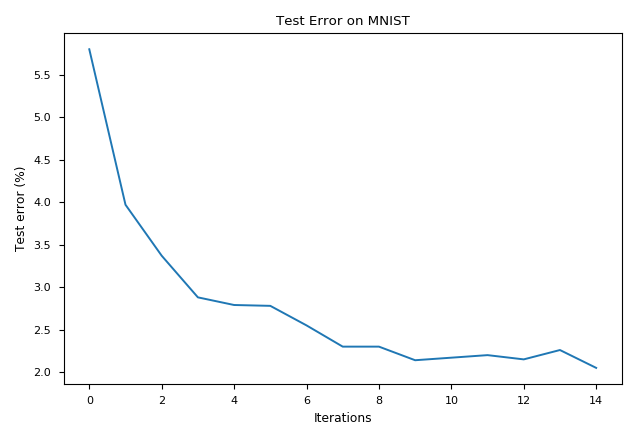
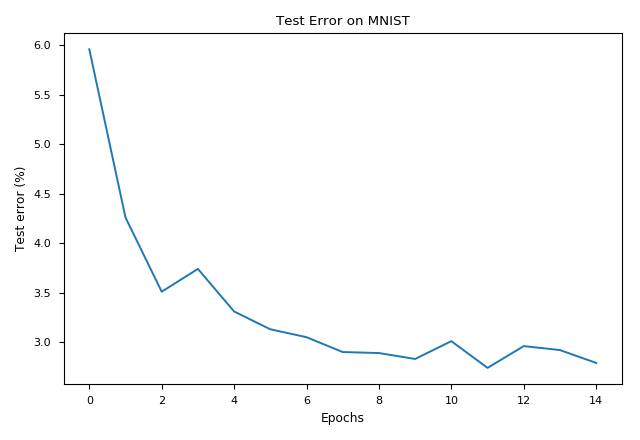
bbb

diff --git a/BBB/bayes_by_backprop.py b/BBB/bayes_by_backprop.py
@@ -1,0 +1,292 @@
+"""
+Adapt from:
+1. https://gist.github.com/vvanirudh/9e30b2f908e801da1bd789f4ce3e7aac
+"""
+
+# from copy import deepcopy
+import numpy as np
+import math
+
+import torch
+import torchvision
+import torch.nn as nn
+import torch.utils.data as Data
+import torch.nn.functional as F
+from torch.autograd import Variable
+from torch.utils.data.sampler import SubsetRandomSampler
+
+
+# Hyperparameters
+N_Epochs = 15
+N_Samples = 1
+LearningRate = 1e-3
+BatchSize = 100
+Download_MNIST = False   # download the dataset if you don't already have it
+
+# Gaussian prior
+SigmaPrior = 1.
+
+# Scaled mixture Gaussian prior
+Pi = .25
+SigmaPrior1 = 2.
+SigmaPrior2 = .1
+
+training_set = torchvision.datasets.MNIST(
+    root='./mnist/',
+    train=True,
+    transform=torchvision.transforms.ToTensor(),
+    download=Download_MNIST
+)
+
+N_Batch = training_set.train_data.size()[0] / BatchSize
+
+
+# # Split training and validation set manually
+# val_set = deepcopy(training_set)
+#
+# indices = list(range(len(training_set)))
+# split = 50000
+#
+# train_idx = indices[:split]
+#
+# train_sampler = SubsetRandomSampler(train_idx)
+# train_loader = torch.utils.data.DataLoader(training_set,
+#                                            batch_size=BatchSize,
+#                                            sampler=train_sampler)
+#
+# valid_sampler = SubsetRandomSampler(valid_idx)
+# valid_loader = torch.utils.data.DataLoader(val_set,
+#                                            batch_size=10000,
+#                                            sampler=valid_sampler)
+#
+# val_X = training_set.train_data[split:]
+# val_Y = training_set.train_labels[split:]
+
+train_loader = Data.DataLoader(dataset=training_set, batch_size=BatchSize, shuffle=True)
+
+
+test_set = torchvision.datasets.MNIST(
+    root='./mnist/',
+    train=False,
+    transform=torchvision.transforms.ToTensor(),
+    download=Download_MNIST
+)
+
+
+NegHalfLog2PI = -.5 * math.log(2.0 * math.pi)
+
+
+def log_gaussian(x, mu, sigma):
+    """
+    Log prob of a Gaussian
+    :param x:
+    :param mu:
+    :param sigma: a real number
+    :return: Log-Gaussian prob of sample x given mean mu and std sigam
+    """
+    if type(sigma) == Variable:
+        return NegHalfLog2PI - torch.log(sigma) - (x - mu) ** 2 / (2 * sigma ** 2)
+    else:
+        return NegHalfLog2PI - math.log(sigma) - (x - mu) ** 2 / (2 * sigma ** 2)
+
+
+def gaussian(x, mu, sigma):
+    """
+    Prob of a Gaussian
+    :param x:
+    :param mu:
+    :param sigma:
+    :return:
+    """
+    scaling = 1. / math.sqrt(2. * math.pi * (sigma ** 2))   # normalizing constant
+    bell = torch.exp(- (x - mu) ** 2 / (2. * sigma ** 2))
+    return scaling * bell
+
+
+def log_mixture_gaussian(x):
+    """
+    Scaled mixture Gaussian prior
+    :param x:
+    :return:
+    """
+    gaussian1 = gaussian(x, 0, SigmaPrior1)
+    gaussian2 = gaussian(x, 0, SigmaPrior2)
+    return torch.log(Pi * gaussian1 + (1 - Pi) * gaussian2)
+
+
+class MLPLayer(nn.Module):
+    def __init__(self, n_input, n_output):
+        super(MLPLayer, self).__init__()
+
+        # Instantiate a large Gaussian block to sample from, much faster than generate random sample every time
+        self._gaussian_block = np.random.randn(10000)
+
+        self.n_input = n_input
+        self.n_output = n_output
+
+        # Hyperparameters for a layer
+        self.W_mu = nn.Parameter(torch.FloatTensor(n_input, n_output).normal_(0, .1))
+        self.W_rho = nn.Parameter(torch.ones(n_input, n_output) * -3)
+
+        self.b_mu = nn.Parameter(torch.FloatTensor(n_output).uniform_(-.1, .1))
+        self.b_rho = nn.Parameter(torch.ones(n_output) * -3)
+
+        self.log_prior = .0
+        self.log_posterior = .0
+
+        self._Var = lambda x: Variable(torch.from_numpy(x).type(torch.FloatTensor))
+
+    def forward(self, X, infer=False):
+
+        # Use *mean* as model parameters at test time
+        if infer:
+            output = torch.mm(X, self.W_mu) + self.b_mu.expand(X.size()[0], self.W_mu.size()[1])
+            return output
+
+        epsilon_W, epsilon_b = self._random()
+
+        W_sigma = torch.exp(self.W_rho)
+        b_sigma = torch.exp(self.b_rho)
+
+        # Construct weight matrix and bias by shifting it by a mean and scale it by a standard deviation
+        W = self.W_mu + W_sigma * epsilon_W
+        b = self.b_mu + b_sigma * epsilon_b
+
+        # Compute output
+        output = torch.mm(X, W) + b.expand(X.size()[0], W.size()[1])
+
+        # Compute prior
+        # Gaussian prior
+        # self.log_prior = log_gaussian(W, 0, SigmaPrior).sum() + \
+        #                  log_gaussian(b, 0, SigmaPrior).sum()
+
+        # Mixture Gaussian prior
+        self.log_prior = log_mixture_gaussian(W).sum() + \
+                         log_mixture_gaussian(b).sum()
+
+        # Compute posterior
+        self.log_posterior = log_gaussian(W, self.W_mu, W_sigma).sum() + \
+                             log_gaussian(b, self.b_mu, b_sigma).sum()
+        return output
+
+    def _random(self):
+        W_noise = np.random.choice(self._gaussian_block, size=self.n_input * self.n_output)
+        W_noise = np.expand_dims(W_noise, axis=1).reshape(self.n_input, self.n_output)
+        W_noise = self._Var(W_noise)
+
+        b_noise = np.random.choice(self._gaussian_block, size=self.n_output)
+        b_noise = self._Var(b_noise)
+
+        return W_noise, b_noise
+
+
+class MLP(nn.Module):
+    def __init__(self, n_input, hidden_size, n_output):
+        super(MLP, self).__init__()
+
+        self.input = MLPLayer(n_input, hidden_size)
+        self.hidden = MLPLayer(hidden_size, hidden_size)
+        self.output = MLPLayer(hidden_size, n_output)
+
+        self.layers = []
+        for layer in [self.input, self.hidden, self.output]:
+            self.layers.append(layer)
+
+    def forward(self, x, infer=False):
+        _log_prior = 0
+        _log_posterior = 0
+
+        for i, layer in enumerate(self.layers):
+            if i != len(self.layers) - 1:   # other than output layer
+                x = F.relu(layer.forward(x, infer))
+            else:
+                x = F.softmax(layer.forward(x, infer))
+
+            _log_prior += layer.log_prior
+            _log_posterior += layer.log_posterior
+
+        return x, _log_prior, _log_posterior
+
+
+def Forward(X, Y):
+    """
+    :param X: batched
+    :param Y: batched
+    :return:
+    """
+    log_prior = 0
+    log_posterior = 0
+    log_likelihood = 0
+
+    for _ in range(N_Samples):   # sample N samples and average
+
+        # Forward and compute log prob
+        output, sample_log_prior, sample_log_posterior = hyper_net.forward(X)
+
+        # The likelihood of observing the data under the current weight configuration
+        log_prob = torch.log(output.gather(1, Y))
+        sample_log_likelihood = log_prob.sum()
+
+        log_prior += sample_log_prior
+        log_posterior += sample_log_posterior
+        log_likelihood += sample_log_likelihood
+
+    return log_prior / N_Samples, log_posterior / N_Samples, log_likelihood / N_Samples
+
+
+def loss_fn(log_prior, log_posterior, log_likelihood):
+    """
+    The objective (loss) function 'f' in the paper given by (8)
+    :param log_prior:
+    :param log_posterior:
+    :param log_likelihood:
+    :return:
+    """
+    return ((1 / N_Batch) * (log_posterior - log_prior) - log_likelihood).sum() / BatchSize
+
+
+# Initialize network
+hyper_net = MLP(784, 128, 10)   # output mean for Gaussian
+optim = torch.optim.Adam(hyper_net.parameters(), lr=LearningRate)
+
+
+# Main training loop
+error_lst = []
+for i_ep in range(N_Epochs):
+
+    # Training
+    for X, Y in train_loader:
+        batch_X = Variable(X.view(X.size()[0], -1))
+        batch_Y = Variable(Y.view(Y.size()[0], -1))
+
+        log_prior, log_posterior, log_likelihood = Forward(batch_X, batch_Y)
+
+        # Loss and backprop
+        loss = loss_fn(log_prior, log_posterior, log_likelihood)
+        optim.zero_grad()
+        loss.backward()
+        optim.step()
+
+
+    # Evaluate on test set
+    test_X = Variable(test_set.test_data.view(test_set.test_data.size()[0], -1).type(torch.FloatTensor))
+    test_Y = Variable(test_set.test_labels.view(test_set.test_labels.size()[0], -1))
+
+    pred_class = hyper_net.forward(test_X, infer=True)[0].data.numpy().argmax(axis=1)
+    true_class = test_Y.data.numpy().ravel()
+
+    test_accu = (pred_class == true_class).mean()
+    print('Epoch', i_ep, '|  Test Accuracy:', test_accu * 100, '%')
+
+    error_lst.append((1 - test_accu) * 100)
+
+
+import matplotlib.pyplot as plt
+plt.style.use('seaborn-paper')
+
+plt.title('Test Error on MNIST')
+plt.plot(error_lst)
+plt.ylabel('Test error (%)')
+plt.xlabel('Epochs')
+plt.tight_layout()
+plt.show()

diff --git a/README.md b/README.md
@@ -26,11 +26,11 @@ I also standardized the state input by keeping a running stat (taken from [John 
 
 #### Bayes by Backprop (BBB)
 
-An implementation of the *Bayes by Backprop* algorithm presented in the paper ["Weight Uncertainty in Neural Networks"](https://arxiv.org/abs/1505.05424) on the MNIST dataset using PyTorch.
+An implementation of the *Bayes by Backprop* algorithm presented in the paper ["Weight Uncertainty in Neural Networks"](https://arxiv.org/abs/1505.05424) on the MNIST dataset using PyTorch. Here we use a scaled mixture Gaussian prior.
 
 ![bbb_mnist_result](BBB/bbb_mnist_result.png)
 
-As you can see on the plot, bayes by backprop prevents the optimization from overfitting.
+As you can see on the plot, bayes by backprop prevents the optimization from overfitting. The last test error was around 2.5% after 15 epochs of training.
 
 
 
